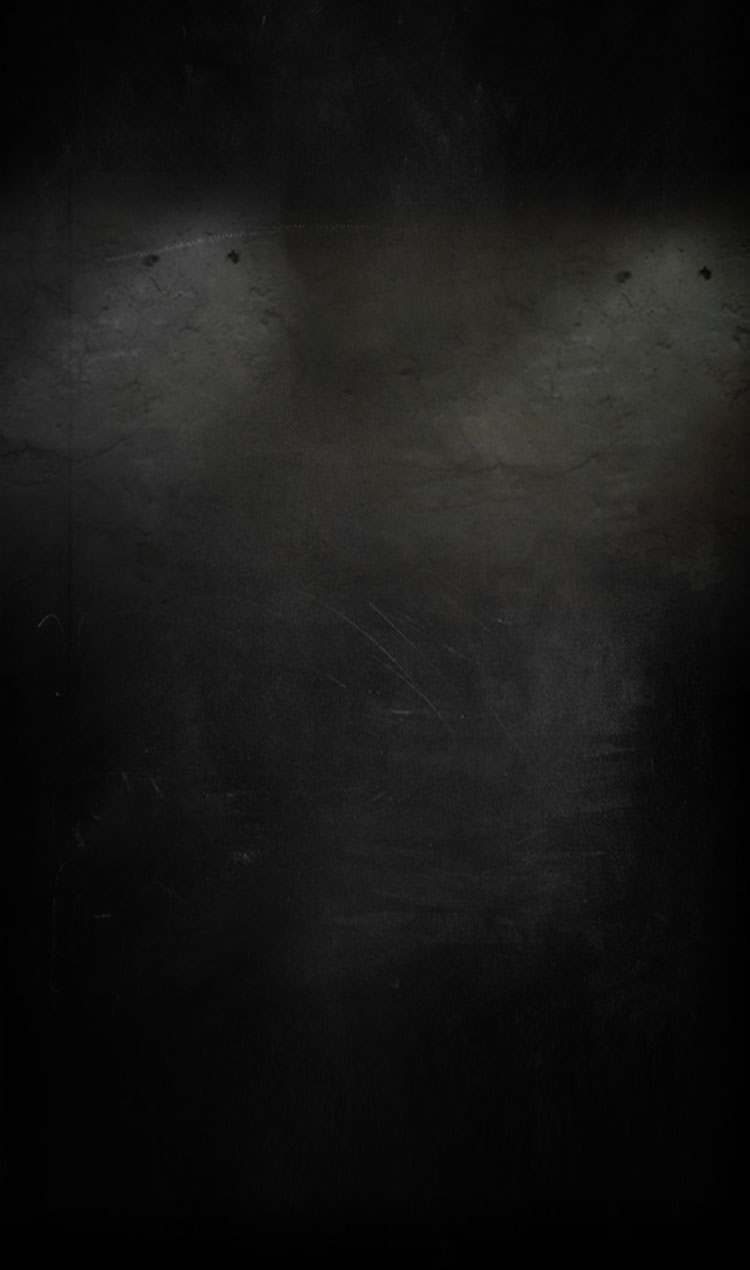
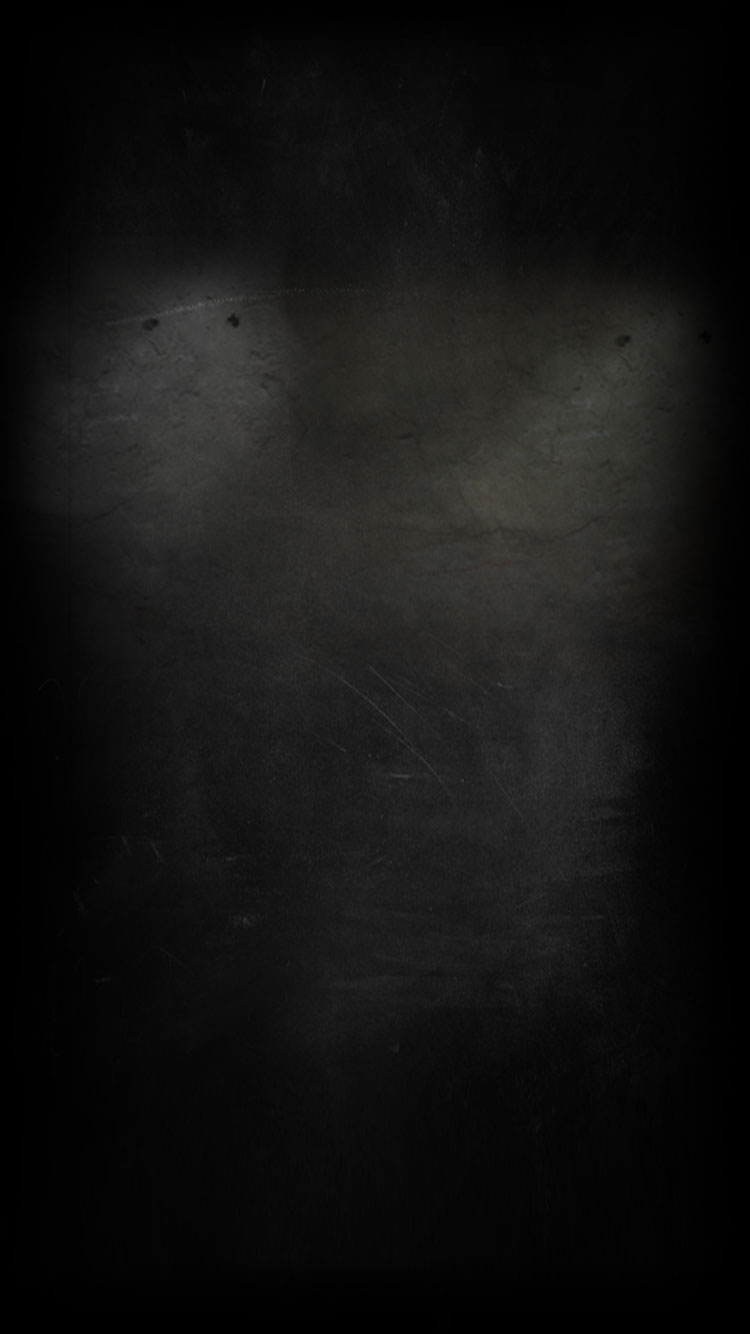
fix

Changed region(s): [[0.7667, 0.1535, 1.0, 0.3992], [0.0, 0.1535, 0.3373, 0.3992]]

diff --git a/.tmp/css/index.css b/.tmp/css/index.css
@@ -154,9 +154,13 @@ html, body {
   left: 0;
 }
 
+#video {
+  display: none;
+}
+
 .bgbg {
   background: url(../img/mainbg1.png) no-repeat center;
-  background-size: contain;
+  background-size: 100%;
   width: 100%;
   height: 3.31rem;
   position: absolute;
@@ -190,14 +194,14 @@ html, body {
 
 .openPanel {
   height: 100%;
-  width: 7.5rem;
+  width: 100%;
   position: absolute;
   left: 50%;
   -webkit-transform: translateX(-50%);
           transform: translateX(-50%);
   top: 0;
   background: url(../img/mainbg.jpg) no-repeat center -1rem #000;
-  background-size: 100% 100%;
+  background-size: contain;
   z-index: 10;
 }
 

diff --git a/src/js/webar.js b/src/js/webar.js
@@ -35,14 +35,14 @@ const WebAR = function(interval, recognizeUrl) {
      * @returns {Promise}
      */
     this.listCamera = function() {
-        
+
         var _this = this;
         return new Promise((resolve, reject) => {
             navigator.mediaDevices.enumerateDevices()
                 .then((devices) => {
                     console.log(devices);
                     devices.find((device) => {
-                        if (device.kind === 'videoinput') { 
+                        if (device.kind === 'videoinput') {
                             console.log(device);
                             var deviceInfo = {};
 

diff --git a/src/css/index.scss b/src/css/index.scss
@@ -47,9 +47,12 @@ html,body{
 	left: 0;
 
 }
+#video{
+	display: none;
+}
 .bgbg{
 	background: url(../img/mainbg1.png) no-repeat center;
-	background-size: contain;
+	background-size: 100%;
 	width: 100%;
 	height: rem(331);
 	position: absolute;
@@ -80,13 +83,13 @@ html,body{
 }
 .openPanel{
 	height: 100%;
-	width: rem(750);
+	width: 100%;
 	position: absolute;
 	left: 50%;
 	transform: translateX(-50%);
 	top: 0;
 	background: url(../img/mainbg.jpg) no-repeat center rem(-100) #000;
-	background-size: 100% 100%;
+	background-size: contain;
 	z-index: 10;
 	.light{
 		width: rem(720);

diff --git a/src/index.html b/src/index.html
@@ -56,8 +56,8 @@
         <div class="kqz"></div>
     </div>
     <div class="container">
-        <video id="video" playsinline=""></video>
 
+        <video id="video" playsinline=""></video>
          <video id="myvideo" muted loop webkit-playsinline  playsinline="">
          <!--<source src="resources/farmerpainting.mp4" type='video/mp4; codecs="avc1.42E01E, mp4a.40.2"'>
         <!-- <source src="resources/sintel.mp4" type='video/mp4; codecs="avc1.42E01E, mp4a.40.2"'> -->

diff --git a/src/js/index.js b/src/js/index.js
@@ -121,6 +121,7 @@ class Main {
       _this.startPanel.hide();
       _this.setIntroInfo();
       if(_this.supportVideo){
+        
         _this.scanPanel.show();
           $("#threecontainer").show();
           $("#myvideo").show();
@@ -189,6 +190,7 @@ class Main {
                     video.setAttribute('width', window.innerWidth.toString() + 'px');
                 }
             }
+
 
         }, 500);
     }).catch((err) => {
